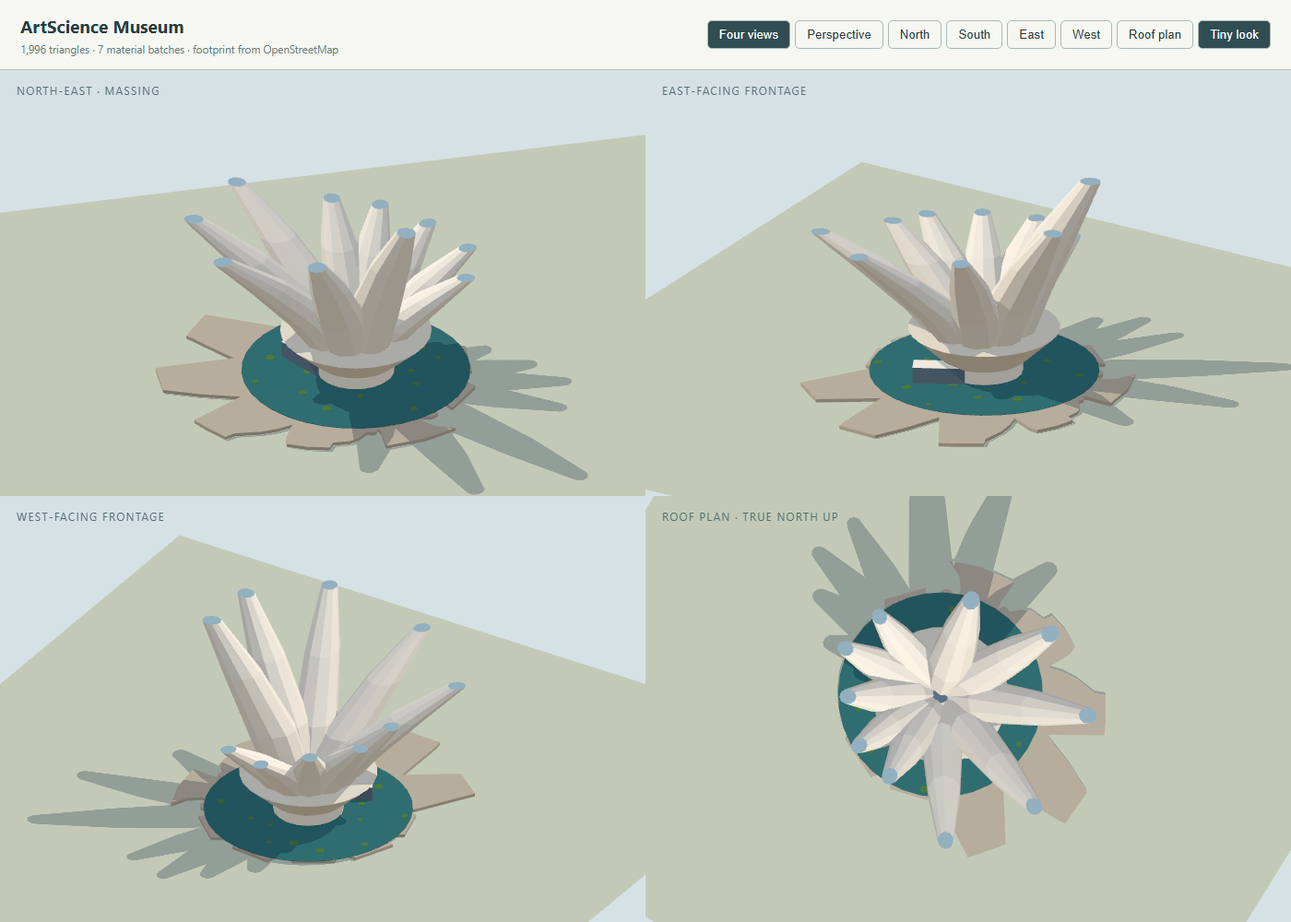
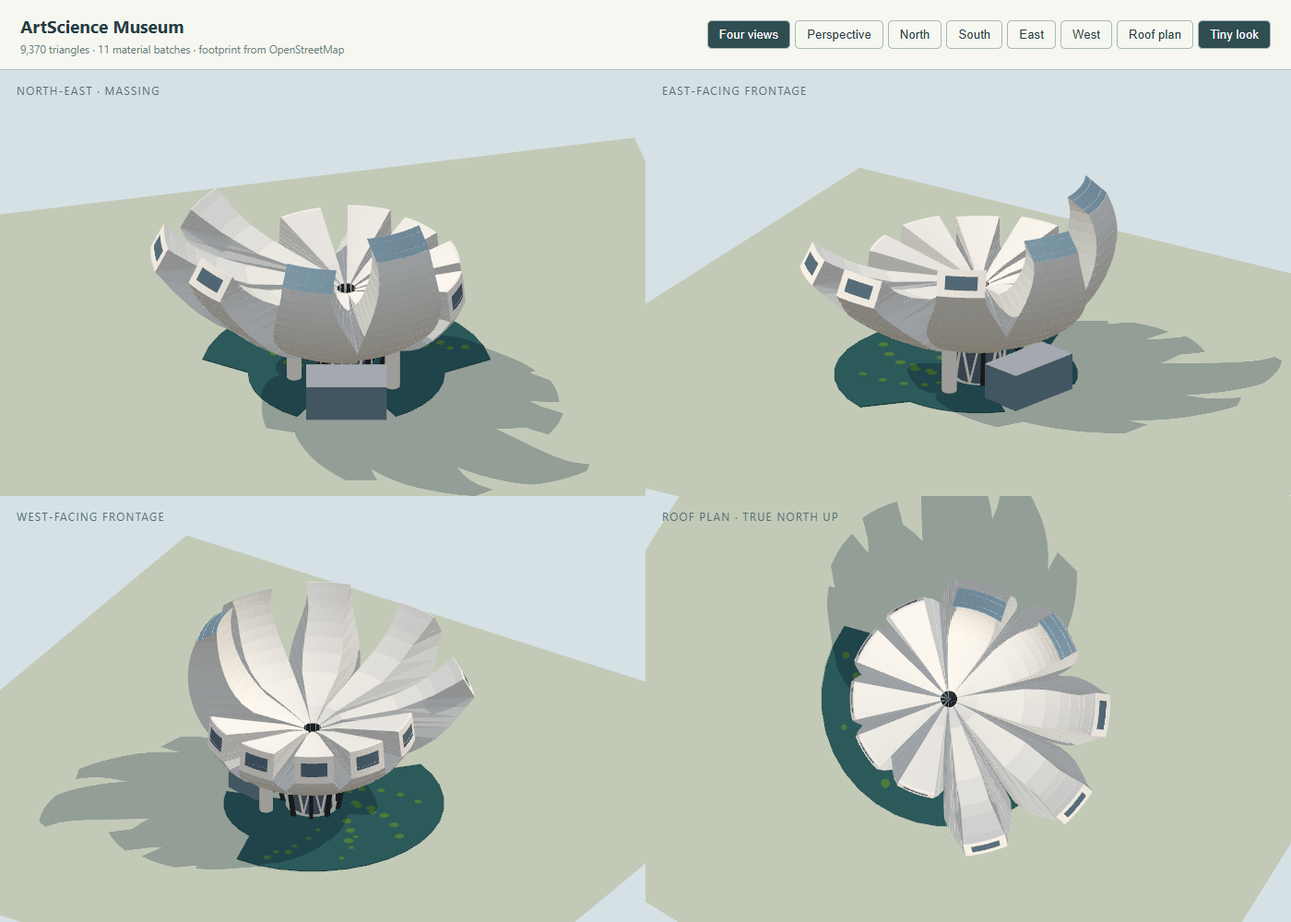
Rebuild SG-048 ArtScience Museum's petals as the real lotus
The first model drew ten thin straight spikes from a small bowl, which read
as an agave rather than Safdie's lotus. Rebuilt against dated photographs and
an aerial over the mapped outline: a round bowl lifted 12.6 m on its core,
columns and stair towers over the lily pond, opening into ten broad petals
with cut ends - five short western ones with windows, the long low
south-eastern ones and the 60 m northern crescent with skylights - each a
stack of horizontal slices of its own profile, with the dish and oculus
between them and the glazed entrance toward the Helix Bridge. Bearings and
reaches follow the mapped slices and outline; heights scale the mapped tags
to the documented 60 m. Tests probe the lifted bowl, petal reaches against
the outline, the open dish, notches and plaza, and collision.

diff --git a/js/landmark-models/artscience-museum.js b/js/landmark-models/artscience-museum.js
@@ -1,96 +1,163 @@
 // js/landmark-models/artscience-museum.js
-// ArtScience Museum (SG-048), 10 Bayfront Avenue (Safdie Architects, opened 2011): the lotus of ten white
-// finger-like petals generated from spheroids, progressing in height around a circular base — the tallest
-// fingertip 60 m above ground (Marina Bay Sands factsheet) — seemingly floating over its giant lily pond.
-// The mapped parts are relation 14314416's 63 member ways: the pond outline 261191086, the round base
-// 827855915 (r ≈ 11 m), the bowl 827855929 and some fifty petal slices whose tagged heights (12–26 m)
-// run at roughly half the documented building; they are used here only for the fingers' bearings, reaches
-// and height progression, scaled to the documented 60 m. See docs/artscience-museum.md.
+// ArtScience Museum (SG-048), 10 Bayfront Avenue (Safdie Architects, opened 2011): the lotus. A round bowl lifted
+// about 12.6 m over its lily pond on a core, seven dark columns, two stair towers and the glazed entrance, opening
+// into ten broad petals of spheroid form with blunt cut ends: five short ones on the west, end faces glazed, and a
+// rising run from the long low south-eastern petals to the tallest, 60 m (Marina Bay Sands factsheet), in the
+// north; a concave dish with an oculus between them. Petal bearings and plan reaches follow relation 14314416's
+// mapped slices and outline; its tagged heights run at about 0.43 of the building's, so heights are scaled to the
+// documented 60 m. See docs/artscience-museum.md.
 export const info = { name: 'ArtScience Museum', height: 60 };
 
-const OUTLINE = 261191086, CORE = 827855915;
-// [bearing (true, deg), fingertip height (m), fingertip distance from the centre (m)] — bearings and reaches
-// clustered from the mapped slices, heights scaled from their progression (see the notes)
+const CORE = 827855915, COLUMNS = [827855856, 827855857, 827855858, 827855859, 827855860, 827855861, 827855862];
+// [bearing, end top [reach, height], outer lip [reach, height], end width, outer and inner slope at the end (deg),
+// swell of the back] — top/lip from the mapped tip slices and outline; widths and slopes from the photographs
 const PETALS = [
-  [18, 60, 30], [61, 55, 38], [98, 51, 45], [140, 46, 44], [178, 42, 44],
-  [212, 38, 29], [238, 36, 29], [269, 35, 28], [296, 33, 32], [322, 32, 30]
+  [18, [29, 60], [35, 55.5], 16, 100, 92, 6],
+  [60, [37, 55], [42.5, 50.5], 14, 92, 84, 3],
+  [96, [46, 51], [50.5, 44.5], 13.5, 65, 55, 0],
+  [130, [50, 46], [53.5, 39], 13.5, 52, 42, 0],
+  [166, [46, 41.5], [49.5, 34.5], 13.5, 45, 35, 0],
+  [200, [30.5, 35], [31.5, 26], 12, 68, 8, 0],
+  [237, [30.5, 35.3], [31.5, 26.3], 12, 68, 8, 0],
+  [269, [30, 34.6], [31, 25.6], 12, 68, 8, 0],
+  [303, [31, 34.9], [32, 25.9], 12, 68, 8, 0],
+  [335, [32, 35.6], [33, 26.2], 12, 68, 10, 0]
 ];
-const BASE_Y = 8; // where the fingers leave the bowl
+const BOTTOM = [11.2, 12.6]; // the bowl's underside over the core [reach, height]
+const DISH = [9, 29.5], OCULUS = 2.6; // the dish's rim, falling to the oculus at 27 m
+const SPLIT = 21; // where the petals part from the shared bowl
+const ARC = 6; // facets across a petal
+
+// a cubic Bezier in (reach, height), sampled as a polyline that rises
+const bezier = (p0, p1, p2, p3, n = 48) => Array.from({ length: n + 1 }, (_, i) => {
+  const t = i / n, u = 1 - t;
+  return [0, 1].map((k) => u * u * u * p0[k] + 3 * u * u * t * p1[k] + 3 * u * t * t * p2[k] + t * t * t * p3[k]);
+});
+// the reach where a rising polyline crosses height y
+const reachAt = (line, y) => {
+  if (y <= line[0][1]) return line[0][0];
+  for (let i = 1; i < line.length; i++) {
+    const [r0, y0] = line[i - 1], [r1, y1] = line[i];
+    if (y <= y1) return r0 + (r1 - r0) * (y - y0) / Math.max(1e-9, y1 - y0);
+  }
+  return line[line.length - 1][0];
+};
+const unit = (deg) => [Math.cos(deg * Math.PI / 180), Math.sin(deg * Math.PI / 180)];
+const smooth = (t) => { const c = Math.min(1, Math.max(0, t)); return c * c * (3 - 2 * c); };
 
 export function build(kit, site) {
   const part = (id) => {
     const p = site.parts.find((q) => q.id === id);
     if (!p?.ring?.length) throw new Error(`ArtScience Museum needs mapped part ${id}`);
-    let ring = p.ring.map((pt) => [...pt]);
-    const f = ring[0], l = ring[ring.length - 1];
-    if (ring.length > 3 && Math.hypot(f[0] - l[0], f[1] - l[1]) < 1e-9) ring = ring.slice(0, -1);
-    return ring;
+    return p.ring;
   };
-  const outline = part(OUTLINE), coreRing = part(CORE);
+  const centroid = (ring) => {
+    let n = ring.length;
+    const f = ring[0], l = ring[n - 1];
+    if (n > 3 && Math.hypot(f[0] - l[0], f[1] - l[1]) < 1e-9) n--;
+    let x = 0, z = 0;
+    for (let i = 0; i < n; i++) { x += ring[i][0] / n; z += ring[i][1] / n; }
+    return [x, z];
+  };
   // The drawing's origin: the mapped round base's own centre (not the vertex-average anchor)
-  let cx = 0, cz = 0;
-  for (const [x, z] of coreRing) { cx += x / coreRing.length; cz += z / coreRing.length; }
-  const circle = (r, seg = 28, phase = 0) => Array.from({ length: seg }, (_, i) => {
-    const a = phase + (i / seg) * Math.PI * 2;
-    return [cx + Math.cos(a) * r, cz + Math.sin(a) * r];
-  });
+  const [cx, cz] = centroid(part(CORE));
+  const at = (deg, r) => { const [dx, dz] = kit.compass(deg); return [cx + dx * r, cz + dz * r]; };
+  const arc = (a0, a1, r0, r1, n = ARC) => [
+    ...Array.from({ length: n + 1 }, (_, j) => at(a0 + (a1 - a0) * j / n, r1)),
+    ...Array.from({ length: n + 1 }, (_, j) => at(a1 - (a1 - a0) * j / n, r0))
+  ];
 
   const M = {
-    deck: kit.material(0xb9b0a0, { roughness: 0.9 }),
-    pond: kit.material(0x2f6f73, { roughness: 0.35, metalness: 0.15 }),
-    lily: kit.material(0x4d7d3a, { roughness: 0.9 }),
-    white: kit.material(0xf1ede3, { roughness: 0.55 }),
-    bowl: kit.material(0xe2dccd, { roughness: 0.65 }),
-    glass: kit.glassMaterial(0x3d5566),
-    skylight: kit.glassMaterial(0x8fb0bc)
+    shell: kit.material(0xd8dbd9, { roughness: 0.45, metalness: 0.25 }), // the stainless backs and sides
+    white: kit.material(0xf4f2ec, { roughness: 0.6 }), // the upper faces and the cut ends
+    window: kit.glassMaterial(0x3b505c),
+    skylight: kit.glassMaterial(0x7e9ca8),
+    oculus: kit.material(0x2a3236, { roughness: 0.8 }),
+    core: kit.glassMaterial(0x34434b),
+    column: kit.material(0x2a2e31, { roughness: 0.6 }),
+    truss: kit.material(0xe9e9e4, { roughness: 0.55 }),
+    entrance: kit.glassMaterial(0x4f6c78),
+    pond: kit.material(0x2c5a5c, { roughness: 0.3, metalness: 0.15 }),
+    lily: kit.material(0x4f7d3c, { roughness: 0.9 })
   };
 
-  // The pond deck on the mapped outline, the lily pond about the base, and a scatter of lily pads
-  kit.prism({ ring: outline, y0: -0.2, y1: 0.8, material: M.deck, top: M.deck, name: 'pond-deck' });
-  kit.cylinder({ x: cx, z: cz, y0: 0.8, y1: 0.95, r: 31, segments: 36, material: M.pond, top: M.pond, name: 'pond' });
-  const lilies = [[14, 40], [19, 95], [24, 150], [17, 205], [27, 232], [21, 282], [15, 318], [26, 8], [22, 66],
-    [28, 122], [16, 172], [25, 262], [18, 340], [29, 190], [13, 130], [23, 300]];
-  lilies.forEach(([r, deg], i) => {
-    const [dx, dz] = kit.compass(deg);
-    kit.cylinder({ x: cx + dx * r, z: cz + dz * r, y0: 0.95, y1: 1.03, r: 0.9 + (i % 3) * 0.25, segments: 7, material: M.lily, top: M.lily, name: `lily-${i}` });
-  });
-
-  // The round base on its mapped ring, the flaring bowl the fingers spring from, and the glazed entrance
-  // toward the Shoppes link (south-east)
-  kit.prism({ ring: coreRing, y0: -0.2, y1: 12.5, material: M.white, top: M.bowl, name: 'round-base' });
-  kit.collisionPrism({ ring: circle(10.6, 24), y0: 0, y1: 12.5 }); // the round drum's interior, filled
-  kit.loft({ ring: circle(11.5), topRing: circle(20.5), y0: 5, y1: 13.5, material: M.bowl, top: M.bowl, name: 'bowl' });
-  kit.collisionPrism({ ring: circle(20, 24), y0: 6, y1: 13.5 });
-  kit.cylinder({ x: cx, z: cz, y0: 13.5, y1: 13.75, r: 2.5, segments: 12, material: M.glass, top: M.glass, name: 'bowl-centre' });
-  const [edx, edz] = kit.compass(150);
-  kit.box({ x: cx + edx * 14, z: cz + edz * 14, y: 0, w: 14, h: 5.5, d: 5.4, yaw: kit.yawToward(150), material: M.glass, top: M.white, name: 'entrance' });
-
-  // The ten fingers: ellipse rings along a spine that leans outward as it rises and tapers to the
-  // fingertip, whose cap is the gallery skylight
-  const T = [0, 0.36, 0.7, 1];
-  PETALS.forEach(([deg, tipY, tipR], i) => {
-    const dir = kit.compass(deg), tang = [-dir[1], dir[0]];
-    const s = 0.82 + 0.3 * (tipY / 60);
-    const A = [6.2, 6.8, 5.2, 2.6], B = [5.2, 6.1, 4.9, 2.3];
-    const level = (t, k) => {
-      const r = 5 + (tipR - 5) * Math.pow(t, 1.3);
-      const ox = cx + dir[0] * r, oz = cz + dir[1] * r;
-      return Array.from({ length: 10 }, (_, j) => {
-        const a = (j / 10) * Math.PI * 2, u = Math.cos(a) * A[k] * s, v = Math.sin(a) * B[k] * s;
-        return [ox + dir[0] * u + tang[0] * v, oz + dir[1] * u + tang[1] * v];
-      });
+  // The ten petals, each a stack of horizontal slices of its profile: the back from the bowl's underside out to the
+  // lip, the cut end from the lip to the top, the upper face from the top back down to the dish
+  PETALS.forEach(([deg, top, lip, width, outerSlope, innerSlope, swell], i) => {
+    const prev = PETALS[(i + PETALS.length - 1) % PETALS.length][0], next = PETALS[(i + 1) % PETALS.length][0];
+    const left = deg - ((deg - prev + 360) % 360) / 2, right = deg + ((next - deg + 360) % 360) / 2;
+    const back = Math.hypot(lip[0] - BOTTOM[0], lip[1] - BOTTOM[1]), face = Math.hypot(top[0] - DISH[0], top[1] - DISH[1]);
+    const o = unit(outerSlope), n = unit(innerSlope);
+    const outer = bezier(BOTTOM, [BOTTOM[0] + 0.4 * back * 0.98, BOTTOM[1] + 0.4 * back * 0.2],
+      [lip[0] - 0.35 * back * o[0] + swell, lip[1] - 0.35 * back * o[1]], lip);
+    const inner = bezier(DISH, [DISH[0] + 0.4 * face, DISH[1] + 0.04 * face], [top[0] - 0.4 * face * n[0], top[1] - 0.4 * face * n[1]], top);
+    const rOut = (y) => (y <= lip[1] ? reachAt(outer, y) : lip[0] + (top[0] - lip[0]) * (y - lip[1]) / (top[1] - lip[1]));
+    const rIn = (y) => (y <= 23.9 ? 0.4 : y <= 24 ? 0.4 + (OCULUS - 0.4) * (y - 23.9) / 0.1 : y <= 27 ? OCULUS
+      : y <= DISH[1] ? OCULUS + (DISH[0] - OCULUS) * (y - 27) / (DISH[1] - 27) : reachAt(inner, y));
+    // the petal's bearings at a height: its full share of the bowl below SPLIT, its end's width by the lip
+    const edges = (y, r) => {
+      const s = smooth((y - SPLIT) / Math.max(1, lip[1] - SPLIT)), half = Math.asin(Math.min(1, width / 2 / r)) * 180 / Math.PI;
+      return [left + (Math.max(left, deg - half) - left) * s, right + (Math.min(right, deg + half) - right) * s];
     };
-    for (let k = 0; k < 3; k++) {
+    const ring = (y) => { const r = rOut(y), [a0, a1] = edges(y, r); return arc(a0, a1, rIn(y), r); };
+
+    const span = top[1] - lip[1], band = [lip[1] + 0.25 * span, lip[1] + 0.75 * span];
+    const levels = [BOTTOM[1], 13.5, 14.8, 16.5, 18.5, SPLIT, 23.9, 24, 27, 28.2, DISH[1], lip[1], ...band, top[1] - 0.12];
+    const steps = Math.ceil((lip[1] - DISH[1]) / 3.2);
+    for (let k = 1; k < steps; k++) levels.push(DISH[1] + (lip[1] - DISH[1]) * k / steps);
+    const ys = [...new Set(levels.filter((y) => y >= BOTTOM[1] && y <= top[1] - 0.12).sort((a, b) => a - b))]
+      .filter((y, k, all) => k === 0 || y - all[k - 1] > 0.05);
+    const skylight = outerSlope > 80; // a near-level cut end is the gallery skylight, glazed whole
+    for (let k = 0; k + 1 < ys.length; k++) {
+      const y0 = ys[k], y1 = ys[k + 1], onEnd = y0 >= lip[1] - 1e-6, glazed = onEnd && y0 >= band[0] - 1e-6 && y1 <= band[1] + 1e-6;
       kit.loft({
-        ring: level(T[k], k), topRing: level(T[k + 1], k + 1),
-        y0: BASE_Y + (tipY - BASE_Y) * T[k], y1: BASE_Y + (tipY - BASE_Y) * T[k + 1],
-        material: M.white, top: k === 2 ? M.skylight : M.white,
-        name: k === 2 ? `petal-${i}-tip` : `petal-${i}-${k}`
+        ring: ring(y0), topRing: ring(y1), y0, y1, material: M.shell, top: skylight && k + 2 === ys.length ? M.skylight : M.white,
+        // walls: the outer arc (0..ARC-1), a side, the inner arc, the other side
+        edgeMaterial: (w) => (w < ARC ? (skylight && onEnd ? M.skylight : glazed && w >= 1 && w < ARC - 1 ? M.window : onEnd ? M.white : null)
+          : w > ARC && w < 2 * ARC + 1 ? (y1 <= 27 + 1e-6 ? M.oculus : M.white) : null),
+        name: k + 2 === ys.length ? `petal-${i}-tip` : `petal-${i}-${k}`
       });
     }
-    // collision over the finger's swept plan, bowl to fingertip; the pond between the fingers stays open
-    const w0 = 4.4 * s, w1 = 2.2 * s;
-    const P = (r, w) => [cx + dir[0] * r + tang[0] * w, cz + dir[1] * r + tang[1] * w];
-    kit.collisionPrism({ ring: [P(4, w0), P(tipR - 2, w1), P(tipR + 2.5, 0), P(tipR - 2, -w1), P(4, -w0)], y0: BASE_Y, y1: tipY });
+    // collision in three bands from where the petal parts to its top, each over the petal's plan in that band
+    for (let b = 0; b < 3; b++) {
+      const y0 = SPLIT + (top[1] - SPLIT) * b / 3, y1 = SPLIT + (top[1] - SPLIT) * (b + 1) / 3;
+      const probe = Array.from({ length: 7 }, (_, k) => y0 + (y1 - y0) * k / 6).filter((y) => y <= top[1] - 0.12);
+      const r0 = Math.max(OCULUS, Math.min(...probe.map(rIn))), r1 = Math.max(...probe.map(rOut));
+      const a = probe.map((y) => edges(y, rOut(y)));
+      kit.collisionPrism({ ring: arc(Math.min(...a.map((e) => e[0])), Math.max(...a.map((e) => e[1])), r0, r1, 4), y0, y1 });
+    }
   });
+  // the bowl below the petals' parting, filled
+  const circle = (r) => Array.from({ length: 24 }, (_, k) => at(k * 15, r));
+  kit.collisionPrism({ ring: circle(17), y0: BOTTOM[1], y1: 17 });
+  kit.collisionPrism({ ring: circle(25), y0: 17, y1: SPLIT });
+
+  // Under the bowl: the glazed core, a white V truss round it, the seven mapped dark columns leaning out to the
+  // bowl, the two white stair towers and the glazed entrance pavilion toward the Helix Bridge (north-east)
+  kit.cylinder({ x: cx, z: cz, y0: 0, y1: 12.5, r: 6.4, segments: 16, material: M.core, top: M.core, name: 'core', outlineCollision: true });
+  for (let k = 0; k < 8; k++) {
+    const a = k * 45, [x0, z0] = at(a, 7.1), [x1, z1] = at(a + 22.5, 7.1), [x2, z2] = at(a + 45, 7.1);
+    kit.beam({ from: [x0, 12.4, z0], to: [x1, 0.2, z1], w: 0.5, h: 0.5, material: M.truss, name: `truss-${k}-a` });
+    kit.beam({ from: [x1, 0.2, z1], to: [x2, 12.4, z2], w: 0.5, h: 0.5, material: M.truss, name: `truss-${k}-b` });
+  }
+  COLUMNS.forEach((id, k) => {
+    const [x, z] = centroid(part(id)), dx = x - cx, dz = z - cz, r = Math.hypot(dx, dz);
+    kit.beam({ from: [x, 0, z], to: [cx + dx * (r + 2.4) / r, 13.2, cz + dz * (r + 2.4) / r], w: 1.2, h: 1.2, material: M.column, name: `column-${k}` });
+  });
+  for (const [k, deg] of [345, 125].entries()) {
+    const [x, z] = at(deg, 14.5);
+    kit.cylinder({ x, z, y0: 0, y1: 14, r: 2.1, segments: 10, material: M.truss, top: M.truss, name: `stair-${k}` });
+  }
+  const [ux, uz] = kit.compass(45), [ex, ez] = at(45, 19);
+  kit.prism({ ring: [[-6, -11], [6, -11], [6, 11], [-6, 11]].map(([u, t]) => [ex + ux * u - uz * t, ez + uz * u + ux * t]), y0: 0, y1: 10.5, material: M.entrance, top: M.shell, name: 'entrance' });
+
+  // The lily pond round the base, widest on the south-west, paved where the entrance meets the north-east
+  const pond = [];
+  for (let a = 75; a <= 375; a += 10) pond.push(at(a, a >= 145 && a <= 305 ? 40 : 27));
+  for (let a = 375; a >= 75; a -= 15) pond.push(at(a, 8.2));
+  kit.prism({ ring: pond, y0: 0, y1: 0.35, material: M.pond, top: M.pond, name: 'pond' });
+  for (let k = 0; k < 24; k++) {
+    const a = 150 + ((k * 47) % 150), r = 13 + ((k * 29) % 23), [x, z] = at(a, r);
+    kit.cylinder({ x, z, y0: 0.35, y1: 0.42 + (k % 4) * 0.015, r: 0.9 + (k % 3) * 0.3, segments: 7, material: M.lily, top: M.lily, name: `lily-${k}` });
+  }
 }

diff --git a/docs/artscience-museum.md b/docs/artscience-museum.md
@@ -2,48 +2,52 @@
 
 ## Design and references
 
-Replace the generic OpenStreetMap extrusions of the ArtScience Museum (10 Bayfront Avenue, Marina Bay Sands; Safdie Architects / Moshe Safdie; opened 17 February 2011; checklist task **SG-048**) with a procedural landmark model in the existing landmark kit: the "welcoming hand" / lotus of ten white finger-like petals, of spheroid-generated form, radiating and rising in a height progression around a circular base, standing in its giant lily-pond reflecting pool on the Bayfront waterfront.
+Replace the generic OpenStreetMap extrusions of the ArtScience Museum (10 Bayfront Avenue, Marina Bay Sands; Safdie Architects / Moshe Safdie; opened 17 February 2011; checklist task **SG-048**) with a procedural landmark model in the existing landmark kit: the "welcoming hand" / lotus. A round bowl is lifted over its lily pond on a core and opens into ten broad petals of spheroid form with blunt, cut ends. They rise in a progression around the centre, from the short western petals to the 60 m northern one, and a concave dish with an oculus lies between them.
 
 - [Marina Bay Sands owner factsheet (PDF)](https://www.marinabaysands.com/content/dam/singapore/marinabaysands/master/main/home/company-information/media-centre/factsheets/amenities/artscience-museum.pdf) — designed by Moshe Safdie; the building is composed of 10 "fingers", **the tallest standing at 60 metres above ground**. This is the model's documented height.
-- [Wikipedia: ArtScience Museum](https://en.wikipedia.org/wiki/ArtScience_Museum) — opened 17 February 2011; anchored by a round base in the middle, with ten extensions ("fingers") in the shape of a flower; each finger is a gallery space with **skylights at the fingertips**; rainwater is channelled through the **bowl-shaped roof into a reflecting pond** at the building's lowest level; 21 gallery spaces totalling about 5,000 m².
-- [e-architect: Marina Bay Sands](https://www.e-architect.com/singapore/marina-bay-sands) (Safdie Architects' press text) — two principal parts: the base, embedded in the earth and surrounded by the bay's water and a **giant lily pond**, and a flower-like structure of **10 petals generated by the geometry of spheroids of varying radii** that seemingly floats above the pond base; the fingers progress in size and height around the centre.
-- [Institution of Civil Engineers: ArtScience Museum](https://www.ice.org.uk/what-is-civil-engineering/what-do-civil-engineers-do/artscience-museum) — a circular core around which radiate 10 fingers housing different galleries; the tallest finger is 60 m above ground (search-indexed; the page itself returned a server error when fetched directly, so this is corroboration, not the primary citation).
+- [Wikipedia: ArtScience Museum](https://en.wikipedia.org/wiki/ArtScience_Museum) — a round base in the middle with ten extensions ("fingers") in the shape of a flower; **skylights at the fingertips**; rainwater is channelled through the **bowl-shaped roof into a reflecting pond** at the building's lowest level.
+- [e-architect: Marina Bay Sands](https://www.e-architect.com/singapore/marina-bay-sands) (Safdie Architects' press text) — a base surrounded by a **giant lily pond**, and a flower of **10 petals generated by the geometry of spheroids of varying radii** that seemingly floats above it; the petals progress in size and height around the centre.
 - [OpenStreetMap relation 14314416](https://www.openstreetmap.org/relation/14314416) — the mapped building, its outline and its 60-plus `building:part` slices (see below).
 
-Reference photographs (the Wikimedia Commons views from Merlion Park and the bay, and the aerial/roof views of the crown of petals) stay outside the repository; the model's whites, the petals' outward splay and the pond are taken from them as noted under "estimated" below.
+Photographs used (Wikimedia Commons; viewed on its file pages, not copied into the repository):
+
+- Roof/site: [View from Marina Bay Sands, 2019](https://commons.wikimedia.org/wiki/File:Singapore_(SG),_View_from_Marina_Bay_Sands,_ArtScience_Museum_--_2019_--_4714.jpg) (from the south-east, looking down: the dish, oculus and pinwheel of petal tops, the glazed entrance pavilion, the round plaza); Esri World Imagery at zoom 19 under the mapped outline (the site circle, promenade and the lily-pad-covered pond on the south-west).
+- Principal elevations: [from the Singapore Flyer, 9 February 2013](https://commons.wikimedia.org/wiki/File:ArtScience_Museum_Birdview_from_Singapore_Flyer_20130209.JPG) (north-east: the bowl on its core, the glazed entrance and the tall northern crescent); [from the Helix Bridge, 2016](https://commons.wikimedia.org/wiki/File:2016_Singapur,_Downtown_Core,_ArtScience_Museum_(01).jpg) (east-north-east, near ground: the north-eastern petal facing the bridge, the entrance pavilion under the bowl); [at night, 16 August 2023](https://commons.wikimedia.org/wiki/File:Museo_ArtScience,_Marina_Bay,_Singapur,_2023-08-16,_DD_140.jpg) (east-south-east: the silhouette, the crescents and the long low south-eastern petals).
+- Side and courtyard views: [from UOB Plaza](https://commons.wikimedia.org/wiki/File:Singapore_ArtScience_Museum_viewed_from_UOB_Plaza.jpg) (west, above: the five western petals' cut ends and windows, the dish, the dark columns and white V truss under the bowl); [from The Stamford](https://commons.wikimedia.org/wiki/File:Singapore_ArtScience_Museum_viewed_from_The_Stamford.jpg) (north-north-west: the same ends, a white stair tower, the pond); [the lily pond under the bowl](https://commons.wikimedia.org/wiki/File:ArtScience_Museum_pond.jpg) (looking south-west).
 
 ## Mapped footprint and dimensions
 
-- Replaced OSM objects (in `tools/data/singapore/osm_buildings.json`): **relation `14314416`** (`type=building`, `name=ArtScience Museum`; hidden via `hideRelations`) and **all 63 of its member ways** (hidden via `hide`, which also supplies `site.parts`): outline ways `261191086` and `827855854` (`building=roof`, `height=6`), the round base `827855915` (`height=13`), the lower bowl `827855929` (`height=14`), seven 1.2 × 1.1 m support columns `827855856`–`827855862` (`height=6`) ringed at 7.5–9.6 m from the centre, and the petal slices `827855863`–`827855930` (with gaps; `height` 12–26).
-- Mapped dimensions (measured from the extract, about the round base's centroid, 1.286088, 103.859171): the outline way `261191086` covers 4,365 m² and reaches 36–54 m from the centre (longest to the south-east) — the pond/podium edge; the round base `827855915` has radius ≈ 11.0 m; the bowl part `827855929` reaches ≈ 21 m. The `building=roof` outline member `827855854` (centre 38 m north-east of the base) is not modelled as a separate roof — it is part of the mapper's slicing of the crown; hiding it removes its generic 6 m mass.
-- The petal slices cluster by bearing about the round base into the ten fingers (clustered from the extract; two wide clusters each contain two adjacent fingers). Per-finger mapped maxima, and the model's fingertip heights derived from them:
+- Replaced OSM objects (in `tools/data/singapore/osm_buildings.json`): **relation `14314416`** (`type=building`, `name=ArtScience Museum`; hidden via `hideRelations`) and **all 63 of its member ways** (hidden via `hide`, which also supplies `site.parts`). These are the outline `261191086`, the outline member `827855854` (`building=roof`, glass, 6 m; the plan of the overhanging north-eastern petals over the entrance), the round base `827855915` (`height=13`, r ≈ 10.5 m), the bowl `827855929` (`min_height` 5, `height` 14), seven 1.2 × 1.1 m dark columns `827855856`–`827855862` (`height=6`) ringed 7.5–9.6 m from the centre, and the petal slices `827855863`–`827855930` (with gaps; `height` 12–26).
+- The model's origin is the round base's centroid (1.286088, 103.859171), recovered from that part by ID. The outline reaches 28–34 m from it on the west and 41–54 m on the north and south-east.
+- **Heights.** The mapped tags run at about 0.43 of the building's: the tallest slice is 26 m against the owner's 60 m. Scaled by 60/26, the tags agree with the photographs throughout: columns to ≈ 14 m (the bowl's underside, 12.6 m in the model), the bowl to ≈ 32 m (the dish rim, 29.5 m), the western slices' uniform 15 m to ≈ 35 m (their cut ends, 34.6–35.6 m), and the north-to-south-east tips 26, 24, 22, 20, 18 m to 60, 55, 51, 46, 41.5 m.
+- **Plan.** The petal slices cluster by bearing into ten petals. Each petal's bearing is its cluster's, and its reach is the outline's on that bearing:
 
-  | Bearing | Max mapped slice height | Max mapped reach from centre | Model fingertip |
+  | Bearing | Mapped max height / reach (slices) | Outline reach | Model: top of the cut end, outer lip (reach, height), end width |
   | --- | --- | --- | --- |
-  | 18° | 26 m | 34 m | 60 m at 30 m |
-  | 61° | 24 m | 43 m | 55 m at 38 m |
-  | 98° | 22 m | 51 m | 51 m at 45 m |
-  | 140° | 20 m | ~50 m | 46 m at 44 m |
-  | 178° | 18 m | ~50 m | 42 m at 44 m |
-  | 212° | 15 m | 32 m | 38 m at 29 m |
-  | 238° | 15 m | 32 m | 36 m at 29 m |
-  | 269° | 15 m | 31 m | 35 m at 28 m |
-  | 296° | 15 m | ~38 m | 33 m at 32 m |
-  | 322° | 15 m | ~35 m | 32 m at 30 m |
+  | 18° | 26 m / 34 m | 41 m | 29 m at 60 m, lip 35 m at 55.5 m (back swelling to ≈ 38 m), 16 m |
+  | 60° | 24 m / 43.5 m | 43 m | 37 m at 55 m, lip 42.5 m at 50.5 m, 14 m |
+  | 96° | 22 m / 51 m | 51 m | 46 m at 51 m, lip 50.5 m at 44.5 m, 13.5 m |
+  | 130° | 20 m / 54 m | 54 m | 50 m at 46 m, lip 53.5 m at 39 m, 13.5 m |
+  | 166° | 18 m / 50 m | 50 m | 46 m at 41.5 m, lip 49.5 m at 34.5 m, 13.5 m |
+  | 200° | 15 m / 32 m | 32 m | 30.5 m at 35 m, lip 31.5 m at 26 m, 12 m |
+  | 237° | 15 m / 32 m | 32 m | 30.5 m at 35.3 m, lip 31.5 m at 26.3 m, 12 m |
+  | 269° | 15 m / 31 m | 31 m | 30 m at 34.6 m, lip 31 m at 25.6 m, 12 m |
+  | 303° | 15 m / 32 m | 32 m | 31 m at 34.9 m, lip 32 m at 25.9 m, 12 m |
+  | 335° | 15 m / 34 m | 34 m | 32 m at 35.6 m, lip 33 m at 26.2 m, 12 m |
 
-- **The mapped heights are not used as absolute heights.** They top out at 26 m, roughly half the owner's documented 60 m — the guide's warning that tags can describe something other than the whole building applies. They are used only as the *progression* (tallest to the north, decreasing clockwise, as the press text's "progress in height around the centre" describes): model fingertip = 60 × (mapped max ÷ 26), with the five western fingers — which the mapper flattened to a uniform 15 m — given a gentle continuing progression (38 → 32 m, the shortest beside the tallest, as a spiral progression implies). Those five heights, the fingertip reaches (≈ mapped reach less the tip slice's half-length), petal widths and all deck/pond levels are **visual estimates from the photographs and the mapped plan**, not surveyed values.
-- Neighbours are preserved: the three low unnamed 3 m ways north of the pond (`172471575`, `172471576`, `620580651`), Da Paolo Gastronomia (`679034072`), the Shoppes podium slices to the south-east (`827847306` etc., SG-047's scope) and the Helix/promenade structures are not hidden.
+- **Estimated** (from the photographs, not surveyed): the western heights' ±0.5 m spread (the mapper flattened them), the end widths, the profiles' curvature (the backs' slopes at the lip and the north petal's swell), the dish (rim 9 m at 29.5 m, falling to a 2.6 m oculus at 27 m), the core (6.4 m radius), the stair towers (2.1 m radius at 345° and 125°, 14.5 m out), the entrance pavilion (22 × 12 × 10.5 m at 45°, 13–25 m out) and the pond (27 m out, 40 m on the south-west, 0.35 m deep).
+- Neighbours are preserved: the three low unnamed 3 m ways north of the pond (`172471575`, `172471576`, `620580651`: the promenade's white pergolas), Da Paolo Gastronomia (`679034072`), the Shoppes podium slices to the south-east (`827847306` etc., SG-047's scope) and the Helix/promenade structures are not hidden.
 
 ## Approach and scope
 
-The model's origin is recovered from the stable mapped round base (`827855915`, found by ID in `site.parts`), not from the generator's vertex-average anchor. True bearings come from `kit.compass`.
+True bearings come from `kit.compass`; every ring is built about the round base's centre.
 
-- **Pond deck**: the mapped outline `261191086` as a low stone-edged prism, with a dark lily-pond disc about the base and a scatter of small lily pads. The pond and promenade stay open — no solid taller than the deck stands on it between the petals.
-- **Base and bowl**: the mapped round base as a white drum, under a flaring bowl loft out to the mapped bowl reach — the embedded base the petals spring from. The seven mapped 6 m columns fall inside the drum and are not drawn separately.
-- **Petals**: each finger is three stacked lofts over ellipse rings along a spine that leaves the bowl, leans outward as it rises and tapers to the fingertip — spheroid fingers at landmark-kit fidelity. The fingertip cap is glass: the fingertip skylights. Petals are warm white (the FRP cladding in the photographs), the bowl a shade darker so the flower reads against the sky in both looks.
-- **Entrance**: a low glazed entrance mass on the south-eastern face of the drum, toward the Shoppes link, estimated from photographs.
-- **Collision**: the deck and drum collide automatically (ground parts); each elevated petal gets an explicit collision prism over its swept plan from the bowl to its fingertip, and the bowl a filled prism, so nothing can descend through the flower — while the pond between the petals and the air outside the outline stay open.
-- No sign is modelled: the building carries no crown lettering in the photographs (its identity signage is at entrance scale). Interiors, the rainwater waterfall through the bowl's centre and lily planting beyond a suggestive scatter are simplified to what reads at map distance.
+- **Petals**: each petal is a stack of `kit.loft`s through horizontal slices of its profile in (reach, height). The outer surface is a cubic curve from the bowl's underside (11.2 m out, 12.6 m up) to the outer lip, swelling and turning to the slope the photographs show at the end. The cut end runs straight from the lip to the end's top. The inner surface is a cubic curve from the top back down to the dish rim. Below 21 m each petal fills its share of the circle between its neighbours' bearings, so together they close into the round bowl. Above 21 m each narrows toward its end width, leaving the notches between petals. Backs and sides are stainless grey, upper faces and the cut ends' frames white. The western and south-eastern ends carry a glazed window band. The near-level ends of the two tallest petals are glazed whole: the fingertip skylights.
+- **Dish**: the petals' upper faces fall to a rim 9 m out at 29.5 m, then to the dark oculus shaft.
+- **Under the bowl**: a glazed core, a white V truss round it, the seven dark columns at their mapped positions leaning out to the bowl, two white stair towers, and the glazed entrance pavilion on the north-east toward the Helix Bridge.
+- **Pond**: a shallow lily pond round the base, widest on the south-west, with a scatter of pads; paved where the entrance meets it.
+- **Collision**: the core, columns' feet, stair towers, entrance and pond collide as ground parts. The bowl is filled from its underside to where the petals part, and each petal in three height bands over its plan in that band. That leaves the space under the bowl, the dish and the notches between the western petals open.
+- No sign is modelled: the photographs show no lettering on the petals (identity signage is at entrance scale). Interiors, the rainwater waterfall through the oculus, the dish's raised rim and the petals' twist and steel panel seams are simplified to what reads at map distance.
 
 ## Inspect and rebuild
 
@@ -61,7 +65,6 @@ node --test tests/landmark-models.test.cjs tests/landmark-artscience-museum.test
 
 ## Verification
 
-- New tests in `tests/landmark-artscience-museum.test.cjs`, built on the real generated anchor with independently located lon/lat probes (the mapped round base's centroid, a point 28 m at bearing 18° under the tallest finger, the pond at bearing 253°, open water 95 m north-west): exactly relation 14314416 and its 63 member ways replaced, with the pond-side pavilions, the Shoppes slices (SG-047), the Crystal Pavilion (SG-057) and the Apple dome (SG-049) intact in the registration; ten fingertip parts in a distinct progression, the tallest at 60 m and the shortest at 32 m; the pond modelled and open between the fingers; no sign; finite geometry, zero coplanar flicker, drum/bowl/finger collision solid with the pond and the outside open. **1,996 triangles in 7 material batches** (budget 65,000/16). The model also joined the generic documented-height loop in `tests/landmark-models.test.cjs` at 60 m.
-- Regenerated geodata: `GEO.landmarks` gains this anchor and SG-049's (35 → 37 anchors against the integration branch this PR rebased onto); this anchor carries all 63 mapped member ways as parts, and `js/singapore-building-info.js` was regenerated in the same run.
-- Targeted checks pass **121/121**: `node --test tests/landmark-artscience-museum.test.cjs tests/landmark-apple-marina-bay-sands.test.cjs tests/landmark-models.test.cjs tests/landmark-kit.test.cjs tests/singapore-landmarks.test.mjs tests/city-geodata.test.mjs tests/building-info.test.mjs`. The full `node --test` suite passes **556/564** on Windows; the 8 failures (7 Overpass `bash` fixtures, 1 tile-worker test) fail identically on the untouched base in a clean worktree — the guide's known platform cases, not regressions.
-- Rendered checks (headless Chrome): the [four-view Tiny overview](images/artscience-museum-overview.png), the north-east massing in day look, and the `backend=webgpu` variant all render the white ten-finger lotus over its pond (this machine's headless Chrome has no WebGPU adapter, so the WebGPU request ran on the WebGL2 fallback — the only console warnings are that adapter notice; no exceptions and no landmark flicker warnings, and the city logs `ArtScience Museum (52 parts, 1996 triangles, 60 m)`). The loaded city view (`/?look=tiny&at=artscience-museum&camera=map`) shows the lotus on the Bayfront point with the promenade, the Helix bridge and the preserved low pavilions around it, no duplicate generic museum mass and no missing neighbours. Compared with the references, the silhouette, white palette, pond and height progression read at map distance; known limitations are the estimated western-finger heights and petal widths above, the unmodelled interior and centre waterfall, and the mapper's `building=roof` outline member absorbed into the crown rather than drawn separately.
+- `tests/landmark-artscience-museum.test.cjs` builds the model on the real generated anchor and probes it from independently located lon/lat points. It checks that exactly relation 14314416 and its 63 member ways are replaced, and that the pavilions, the Shoppes slices (SG-047), the Crystal Pavilion (SG-057) and the Apple dome (SG-049) remain in the registration. It checks ten petals: the northern one at 60 m, falling clockwise through the north-east and south-east, the five western ones alike at 33–37 m. Each petal reaches within 5 m of the mapped outline on its bearing and keeps to its own bearing. The bowl's underside is 12.6 m up with nothing under its western flank but the pond, the entrance pavilion stands on the north-east, the lily pond has its pads, and there is no sign. It also checks finite geometry and zero coplanar flicker. Collision is solid in the core, bowl, tallest and long south-eastern petals and the entrance, and open under the bowl, under the south-eastern petal, in the dish, in a western notch and in the bay. **9,370 triangles in 11 material batches** (budget 65,000/16). The model is also in the generic documented-height loop in `tests/landmark-models.test.cjs` at 60 m.
+- Rendered checks (headless Chrome, WebGL): the [four-view Tiny overview](images/artscience-museum-overview.png), and perspective views matched to the photographs above (from the north-north-west, the east-north-east, the west and the east-south-east) in the Tiny and day looks. Each matched view shows the same petal at the same place as its photograph: the northern crescent, the north-eastern petal facing the Helix Bridge, the long south-eastern petals and the five western ends with windows. The loaded city view (`/?look=tiny&at=artscience-museum&camera=map`) shows the lotus on the Bayfront point inside its promenade, with no generic museum mass left under it.
+- Known limitations: the western heights, end widths and profile curvature are estimates as listed above; the petals have no twist, so the real building's pinwheel overlap reads only in plan; the dish is a plain cone with no raised rim; the interior and waterfall are not modelled.

diff --git a/docs/landmark-checklist.md b/docs/landmark-checklist.md
@@ -114,8 +114,8 @@ Columns are deliberately row-local: update your row rather than maintaining shar
 | SG-045 | [ ] | IOI Central Boulevard Towers | Unequal towers, sky park and bridges; [owner reference](https://www.ioiproperties.com.sg/portfolio/ioi-central-boulevard-towers) | todo | — |
 | SG-046 | [ ] | Marina Bay Sands — hotel towers and SkyPark | Leaning legs, terraces, deck and pool; [existing legacy implementation](../js/singapore-landmarks.js); add source notes | audit | — |
 | SG-047 | [ ] | Marina Bay Sands — Shoppes and convention/exhibition podium | Roof folds, glazed atria, entrances and water edge; excludes SG-046 | todo | — |
-| SG-048 | [ ] | ArtScience Museum | Ten white spheroid fingers in a mapped height progression to the documented 60 m around the round base, glass fingertip skylights, flaring bowl, lily pond and deck on the mapped outline; [model](../js/landmark-models/artscience-museum.js), [sources and verification](artscience-museum.md), [render](images/artscience-museum-overview.png); 121 targeted checks pass | review | Meta Muse / 01a1a437; `datainvestor/sg-marina-waterfront-buildings`; user-assigned 2026-11-04; [PR #25](https://github.com/datainvestor/tiny-singapore/pull/25); shared-branch acceptance pending |
-| SG-049 | [ ] | Apple Marina Bay Sands pavilion | 30 m glass sphere in latitude bands with ten mullions, concentric baffles and oculus, black glass base in the bay and the ramped boardwalk to the shore (bearing 55°) with its Apple signpost; [model](../js/landmark-models/apple-marina-bay-sands.js), [sources and verification](apple-marina-bay-sands.md), [render](images/apple-marina-bay-sands-overview.png); 121 targeted checks pass | review | Meta Muse / 01a1a437; `datainvestor/sg-marina-waterfront-buildings`; user-assigned 2026-11-04; [PR #25](https://github.com/datainvestor/tiny-singapore/pull/25); shared-branch acceptance pending |
+| SG-048 | [ ] | ArtScience Museum | Round bowl lifted 12.6 m on its core, columns and stair towers over the lily pond; ten broad petals with cut ends, from the five short western ones (windows in their ends) through the long south-eastern ones to the 60 m northern crescent (skylights); dish and oculus; glazed entrance pavilion toward the Helix Bridge; [model](../js/landmark-models/artscience-museum.js), [sources and verification](artscience-museum.md), [render](images/artscience-museum-overview.png); rebuilt in review against dated photographs; 121 targeted and 563/564 full checks pass (the tile worker's known failure), WebGL, WebGPU and the city checked | review | Meta Muse / 01a1a437; `datainvestor/sg-marina-waterfront-buildings`; user-assigned 2026-11-04; [PR #25](https://github.com/datainvestor/tiny-singapore/pull/25); petals rebuilt in review by Claude Code / e9204274 |
+| SG-049 | [ ] | Apple Marina Bay Sands pavilion | 30 m glass sphere in latitude bands with ten mullions, concentric baffles and oculus, black glass base in the bay and the ramped boardwalk to the shore (bearing 55°) with its Apple signpost; [model](../js/landmark-models/apple-marina-bay-sands.js), [sources and verification](apple-marina-bay-sands.md), [render](images/apple-marina-bay-sands-overview.png); 121 targeted and 563/564 full checks pass (the tile worker's known failure), WebGPU and the city checked in review | review | Meta Muse / 01a1a437; `datainvestor/sg-marina-waterfront-buildings`; user-assigned 2026-11-04; [PR #25](https://github.com/datainvestor/tiny-singapore/pull/25) |
 | SG-050 | [ ] | Supertree Grove and Silver Garden Supertrees / OCBC Skyway | Branching canopies, planting and bridge; [legacy implementation](../js/singapore-landmarks.js); add source notes | audit | — |
 | SG-051 | [ ] | Gardens by the Bay — Flower Dome | Ribbed asymmetric shell and low service edges | todo | — |
 | SG-052 | [ ] | Gardens by the Bay — Cloud Forest | Taller inclined shell, ribs and entrance | todo | — |
